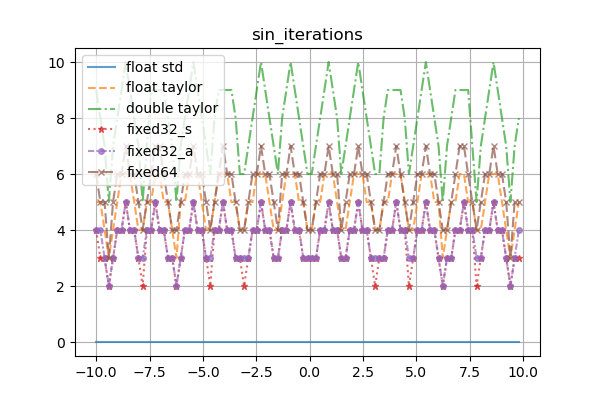
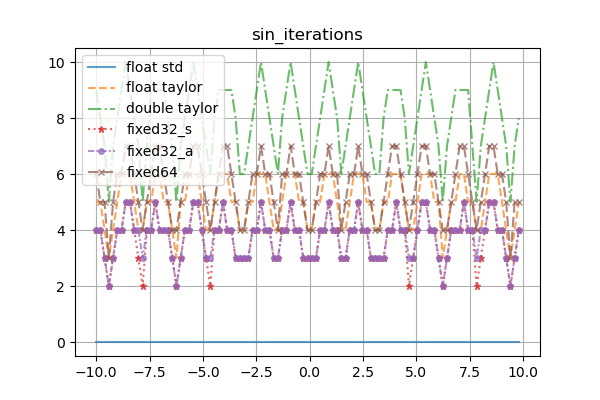
Optimized fixed_32_a

diff --git a/src/lib/fixedpoint.h b/src/lib/fixedpoint.h
@@ -288,9 +288,11 @@ namespace fixedpoint_helpers {
         constexpr const static int mul_a_decrease = value_splitter<int, mul_ab_decrease, a_acc, b_acc>::a_value;
         constexpr const static int mul_b_decrease = value_splitter<int, mul_ab_decrease, a_acc, b_acc>::b_value;
 
+        using multiple_operational_type = typename std::conditional<mul_accuracy_decrease == 0, typename C::BUF_TYPE, typename C::CALCULATE_TYPE>::type;
+
         FORCE_INLINE 
         constexpr static C multiple(const A a, const B b) noexcept {
-            return C::buf_cast(static_signed_shl<typename C::CALCULATE_TYPE, -mul_c_decrease>(make_buf<A, typename C::CALCULATE_TYPE, a_acc - mul_a_decrease>(a) * make_buf<B, typename C::CALCULATE_TYPE, b_acc - mul_b_decrease>(b)));
+            return C::buf_cast(static_signed_shl<multiple_operational_type, -mul_c_decrease>(make_buf<A, multiple_operational_type, a_acc - mul_a_decrease>(a) * make_buf<B, multiple_operational_type, b_acc - mul_b_decrease>(b)));
         }
 
 
@@ -302,19 +304,21 @@ namespace fixedpoint_helpers {
         constexpr const static int div_b_decrease = value_splitter_a_floor<int, div_bc_change, b_acc, c_acc>::a_value;
         constexpr const static int div_c_increase = value_splitter_a_floor<int, div_bc_change, b_acc, c_acc>::b_value;
  
+        using division_operational_type = typename std::conditional<div_a_increase == 0 && div_c_increase == 0, typename C::BUF_TYPE, typename C::CALCULATE_TYPE>::type;
+
         template<int B_DEC>
         FORCE_INLINE constexpr static typename std::enable_if<B_DEC != 0, C>::type 
         __divide(const A a, const B b) noexcept {
             typename C::BUF_TYPE divisor = make_buf<B, typename C::BUF_TYPE, b_acc - div_b_decrease>(b);            
             return (divisor) ?
-                C::buf_cast(static_signed_shl<typename C::CALCULATE_TYPE, div_c_increase>(make_buf<A, typename C::CALCULATE_TYPE, a_acc + div_a_increase>(a) / divisor)) :
+                C::buf_cast(static_signed_shl<division_operational_type, div_c_increase>(make_buf<A, division_operational_type, a_acc + div_a_increase>(a) / divisor)) :
                 ((a < 0) ? std::numeric_limits<C>::lowest() : std::numeric_limits<C>::max());
         }
-             
+
         template<int B_DEC>
         FORCE_INLINE constexpr static typename std::enable_if<B_DEC == 0, C>::type 
         __divide(const A a, const B b) noexcept {          
-            return C::buf_cast(static_signed_shl<typename C::CALCULATE_TYPE, div_c_increase>(make_buf<A, typename C::CALCULATE_TYPE, a_acc + div_a_increase>(a) / make_buf<B, typename C::BUF_TYPE, b_acc - div_b_decrease>(b)));
+            return C::buf_cast(static_signed_shl<division_operational_type, div_c_increase>(make_buf<A, division_operational_type, a_acc + div_a_increase>(a) / make_buf<B, typename C::BUF_TYPE, b_acc - div_b_decrease>(b)));
         }
 
         FORCE_INLINE 

diff --git a/src/lib/taylormath.h b/src/lib/taylormath.h
@@ -111,21 +111,7 @@ namespace taylor {
         return x / ((std::size_t)1 << n);
     }
 
-    template<typename T>
-    constexpr bool diff_less_than_epsilon_pos(T a, T b) {
-        return (a - b) <= std::numeric_limits<T>::min();
-    }
-
-    template<typename T>
-    constexpr bool diff_less_than_epsilon_neg(T a, T b) {
-        return diff_less_than_epsilon_pos<T>(b, a);
-    }
-
-    template<typename T>
-    constexpr bool diff_less_than_epsilon(T a, T b) {
-        return (a > b) ? diff_less_than_epsilon_pos<T>(a, b) : diff_less_than_epsilon_neg<T>(a, b);
-    }
-
+    
     template<typename T, bool sine>
     T base_trig_pos(T x) {
         T result = 0;
@@ -136,7 +122,7 @@ namespace taylor {
             if (__glibc_unlikely(poly <= 0)) break;
             T part = poly / gamma_tab[i];
             T new_result = (i & 2) ? (result - part) : (result + part);
-            if (diff_less_than_epsilon(result, new_result)) break;
+            if (__glibc_unlikely(result == new_result)) break;
             result = new_result;
             poly *= x2;
         }
@@ -199,7 +185,7 @@ namespace taylor {
             TAYLOR_INCREMENT_LOOP_COUNTER;
             T part = div_by_pow2<T>(pochhammer_counters[i] * poly / asin_divisors_tab[i], i);            
             T new_result = result + part;
-            if (diff_less_than_epsilon_neg(result, new_result)) break;
+            if (__glibc_unlikely(result == new_result)) break;
             result = new_result;
             poly *= x2;
         }
@@ -218,7 +204,7 @@ namespace taylor {
             TAYLOR_INCREMENT_LOOP_COUNTER;
             T part = div_by_pow2<T>(pochhammer_counters[i] * poly / asin_divisors_tab[i], i << 1);
             T new_result = result + part;
-            if (diff_less_than_epsilon_neg(result, new_result)) break;
+            if (__glibc_unlikely(result == new_result)) break;
             result = new_result;
             poly *= x;
         }
@@ -267,7 +253,7 @@ namespace taylor {
             TAYLOR_INCREMENT_LOOP_COUNTER;
             T part = poly / i;            
             T new_result = (i & 1) ? (result + part) : (result - part);
-            if (diff_less_than_epsilon(result, new_result)) break;
+            if (__glibc_unlikely(result == new_result)) break;
             result = new_result;
             poly *= x;
         }
@@ -313,7 +299,7 @@ namespace taylor {
             T part = poly / gamma_tab[i];
             if (__glibc_unlikely(part <= 0)) return result;
             T new_result = result + part;
-            if (diff_less_than_epsilon_neg(result, new_result)) return result;
+            if (__glibc_unlikely(result == new_result)) return result;
             result = new_result;
             poly *= x;
         }

diff --git a/Readme.md b/Readme.md
@@ -103,25 +103,25 @@ all of them might be faster or slower - it depends on the target platform. **Res
 ### Speed comparision (microseconds per 100000 operations on ESP32C3@160MHz)
 
 <table><thead><tr><th>type</th><th>library</th><th>addition</th><th>subtraction</th><th>multiplication</th><th>division</th><th>sin</th><th>sqrt</th><th>asin</th><th>log</th><th>exp</th></tr></thead><tbody>
-<tr><th>fixed32_s</th><th>taylormath</th><td>6979</td><td>6916</td><td>6291</td><td>38996</td><td>201552</td><td>78629</td><td>112090</td><td>349674</td><td>304544</td>
+<tr><th>fixed32_s</th><th>taylormath</th><td>6980</td><td>6917</td><td>6921</td><td>38997</td><td>187894</td><td>78628</td><td>113231</td><td>343401</td><td>294970</td>
 
 </tr>
-<tr><th>fixed32_a</th><th>taylormath</th><td>6956</td><td>6923</td><td>15723</td><td>201882</td><td>627559</td><td>256227</td><td>241801</td><td>1368674</td><td>985915</td>
+<tr><th>fixed32_a</th><th>taylormath</th><td>6956</td><td>6924</td><td>15729</td><td>201254</td><td>306980</td><td>256226</td><td>171002</td><td>865186</td><td>394723</td>
 
 </tr>
-<tr><th>fixed64</th><th>taylormath</th><td>13247</td><td>13211</td><td>20761</td><td>206306</td><td>880163</td><td>384177</td><td>388638</td><td>2042001</td><td>1458539</td>
+<tr><th>fixed64</th><th>taylormath</th><td>13268</td><td>13211</td><td>20755</td><td>205680</td><td>836382</td><td>384171</td><td>392481</td><td>2007695</td><td>1436104</td>
 
 </tr>
-<tr><th>float</th><th>cmath</th><td>101481</td><td>105836</td><td>164151</td><td>254695</td><td>2026081</td><td>336244</td><td>533434</td><td>1527394</td><td>2015399</td>
+<tr><th>float</th><th>cmath</th><td>101481</td><td>105843</td><td>164146</td><td>254703</td><td>2026087</td><td>336237</td><td>533432</td><td>1527398</td><td>2015375</td>
 
 </tr>
-<tr><th>double</th><th>cmath</th><td>118829</td><td>121304</td><td>289300</td><td>495235</td><td>3022846</td><td>613325</td><td>841090</td><td>2339532</td><td>2995488</td>
+<tr><th>double</th><th>cmath</th><td>118823</td><td>121311</td><td>289295</td><td>495235</td><td>3022846</td><td>613325</td><td>841096</td><td>2339528</td><td>2995495</td>
 
 </tr>
-<tr><th>float</th><th>taylormath</th><td>101481</td><td>105843</td><td>163520</td><td>255329</td><td>3191843</td><td>1839367</td><td>1534015</td><td>9614019</td><td>4872574</td>
+<tr><th>float</th><th>taylormath</th><td>101481</td><td>105843</td><td>164145</td><td>254704</td><td>2690285</td><td>1834694</td><td>1432962</td><td>8418461</td><td>4189229</td>
 
 </tr>
-<tr><th>double</th><th>taylormath</th><td>118835</td><td>121304</td><td>288672</td><td>494610</td><td>6841860</td><td>8243722</td><td>7323676</td><td>37477748</td><td>11657312</td>
+<tr><th>double</th><th>taylormath</th><td>118835</td><td>121304</td><td>289303</td><td>495234</td><td>5823425</td><td>8232447</td><td>7001769</td><td>34081771</td><td>10238240</td>
 
 </tr>
 </tbody></table>
